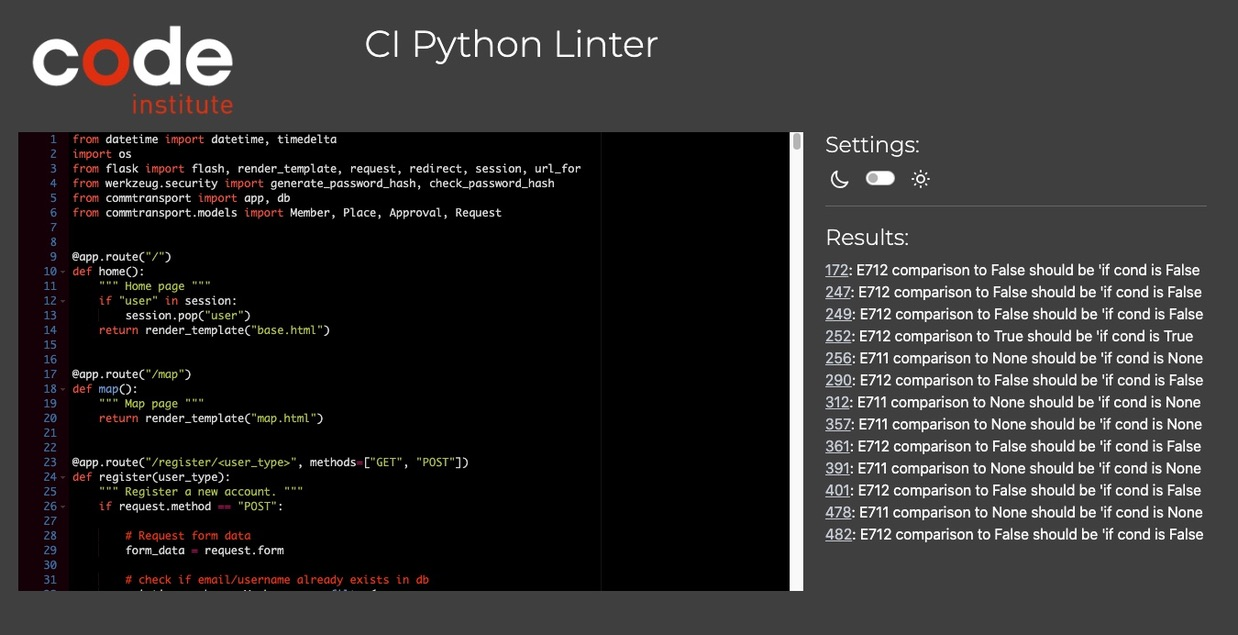
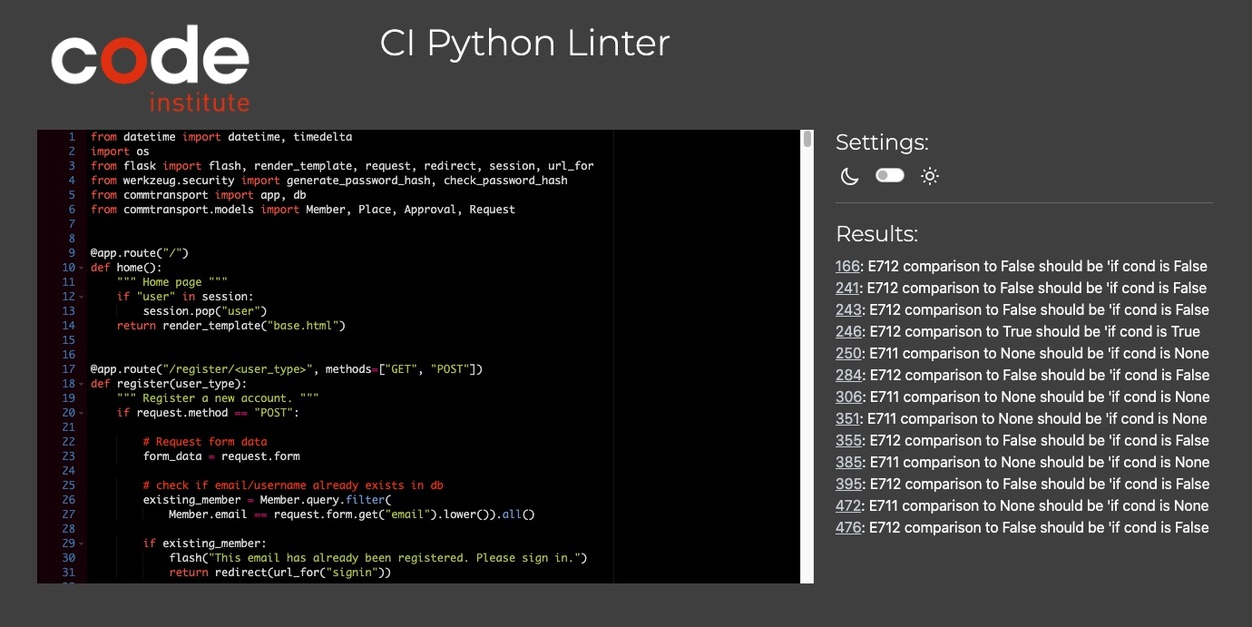
update images

diff --git a/README.md b/README.md
@@ -108,7 +108,7 @@ I used two fonts, [Oswald](https://fonts.google.com/specimen/Oswald) and [Quicks
 
 The main background image was downloaded from [freesvg.org](https://freesvg.org/cityscape-cartoon-illustration).
 
-The icons are either linked to the FontAwesome library or were downloaded from [svgrepo](https://svgrepo.com/). Credits to individual icons are given in the [credits](#credits) section. <br>
+The icons were downloaded from [svgrepo](https://svgrepo.com/). Credits to individual icons are given in the [credits](#credits) section. <br>
 For **favicons**, I created a small logo in [Figma](https://www.figma.com/) and used the [RealFaviconGenerator](https://realfavicongenerator.net/svg-favicon/) to convert it to favicons.
 
 <br><br>
@@ -274,8 +274,6 @@ The site was built with [Python], [PosgreSQL], [JavaScript](https://en.wikipedia
 
 * [Lucid App](https://lucid.app)
 
-* [FontAwesome](https://fontawesome.com/)
-
 * [Random Key Generator](https://randomkeygen.com/)
 
 * [Geolocation coordinate finder](http://bboxfinder.com/)
@@ -343,6 +341,12 @@ https://www.svgrepo.com/svg/499655/time - PD (Public Domain) Licence
 
 * login icon
 https://www.svgrepo.com/svg/499619/login - PD (Public Domain) Licence
+
+* burger icon
+https://www.svgrepo.com/svg/499620/menu-burger - PD (Public Domain) Licence
+
+* caret down
+https://www.svgrepo.com/svg/499575/chevron-down - PD (Public Domain) Licence
 
 <br><br>
 

diff --git a/TESTING.md b/TESTING.md
@@ -5,6 +5,8 @@
 
 ### Python Validation
 
+Validator: https://pep8ci.herokuapp.com/
+
 | CI Python Linter Result | Passed |Warnings | 
 | :--- | :---: | :--- | 
 | [models.py file CI Linter Result](testing-images/python-models-py.jpeg) | &check; | |
@@ -14,6 +16,8 @@
 <br><br>
 
 ### JavaScript Validations
+
+Validator: https://jshint.com/
 
 | JSHint Result | Passed | Warnings |
 | :--- | :---: | :--- | 
@@ -33,6 +37,8 @@
 <br><br>
 
 ### HTML and CSS Validations
+
+Validator: https://validator.w3.org/
 
 > Warnings / Errors due to Jinja template functionalities are filtered out from the results.
 > CSS Errors can be ignored as they are referring to new CSS properties that are now widely supported.
